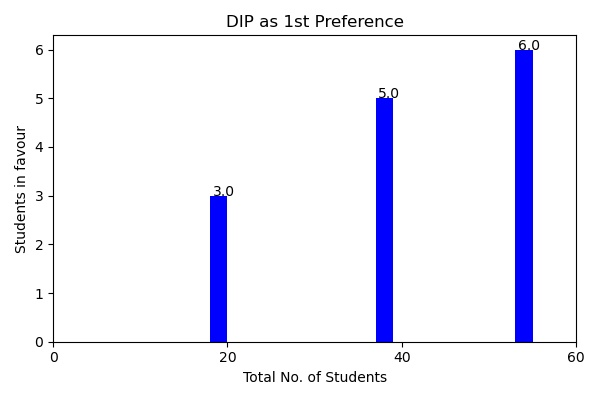
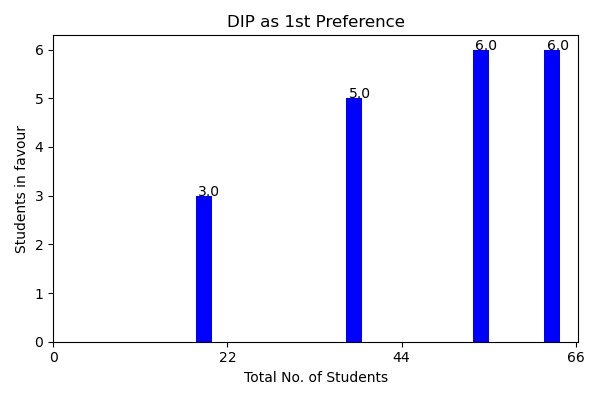
Added New Record

diff --git a/templates/home.html b/templates/home.html
@@ -10,7 +10,6 @@
     <link rel="stylesheet" href="https://stackpath.bootstrapcdn.com/bootstrap/4.4.1/css/bootstrap.min.css"
         integrity="sha384-Vkoo8x4CGsO3+Hhxv8T/Q5PaXtkKtu6ug5TOeNV6gBiFeWPGFN9MuhOf23Q9Ifjh" crossorigin="anonymous">
     <link rel="stylesheet" href="https://www.w3schools.com/w3css/4/w3.css">
-
 </head>
 
 <body class="bg-white">

diff --git a/dip/views.py b/dip/views.py
@@ -35,7 +35,7 @@ def home(request):
         else:
             plt.title('DIP as '+str(num)+'th Preference')
 
-        plt.xticks([0,20,40,60])
+        plt.xticks([0,22,44,66])
         num+=1
 
         plt.xlabel('Total No. of Students')
